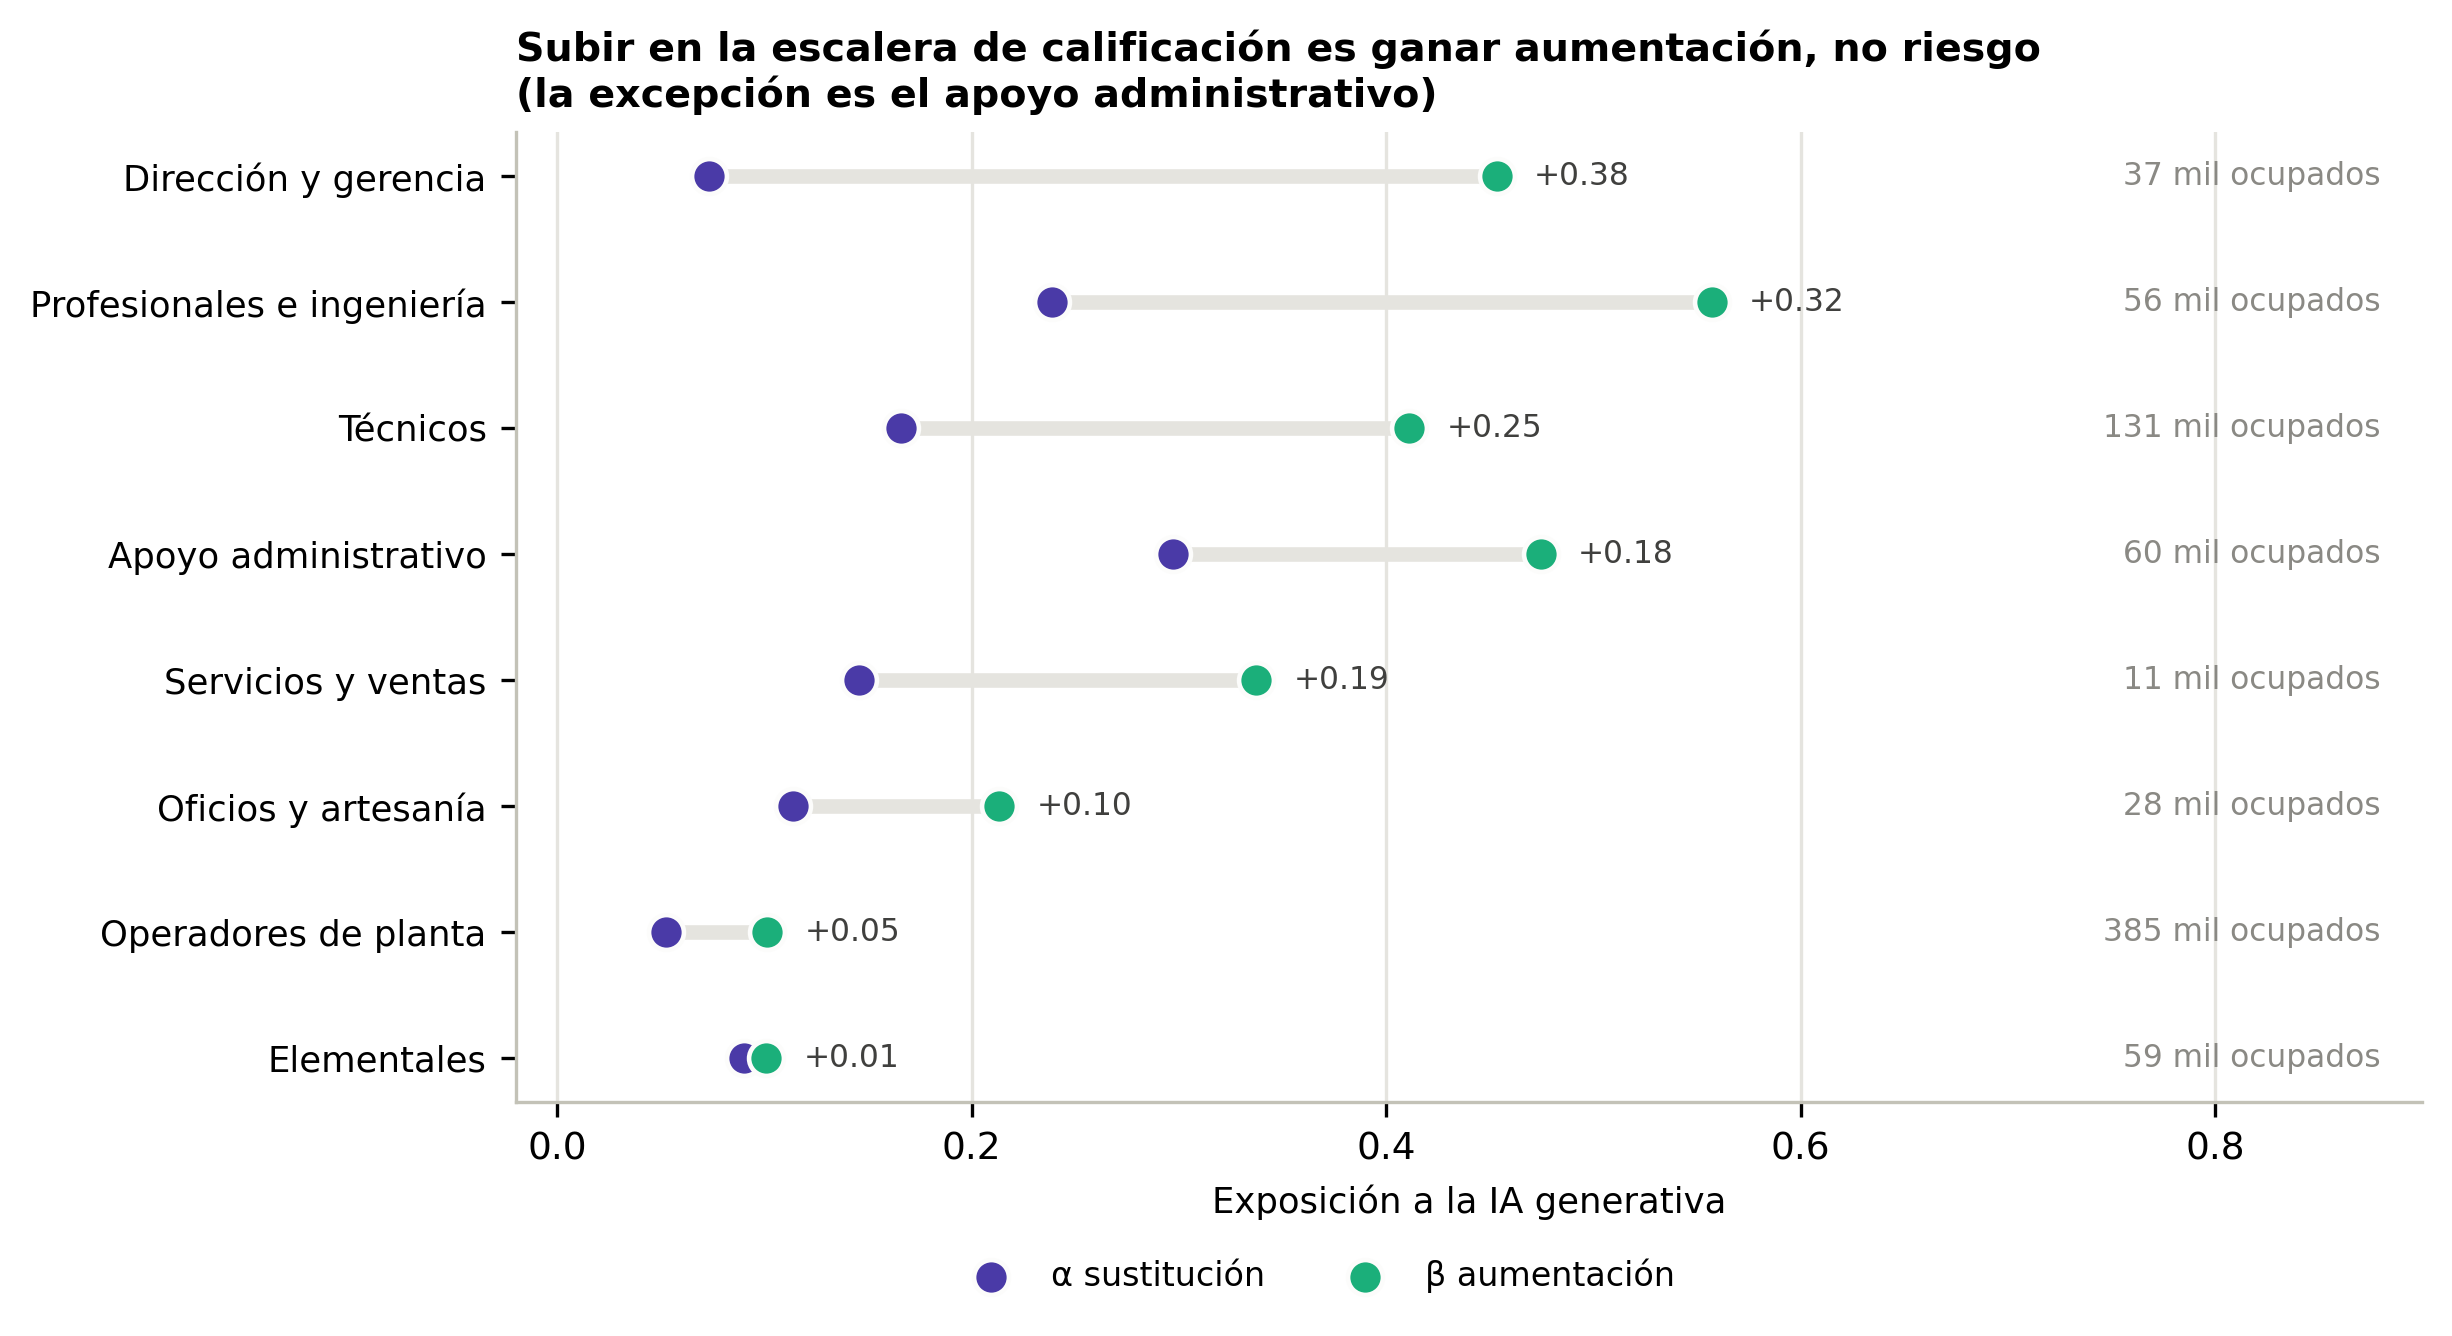
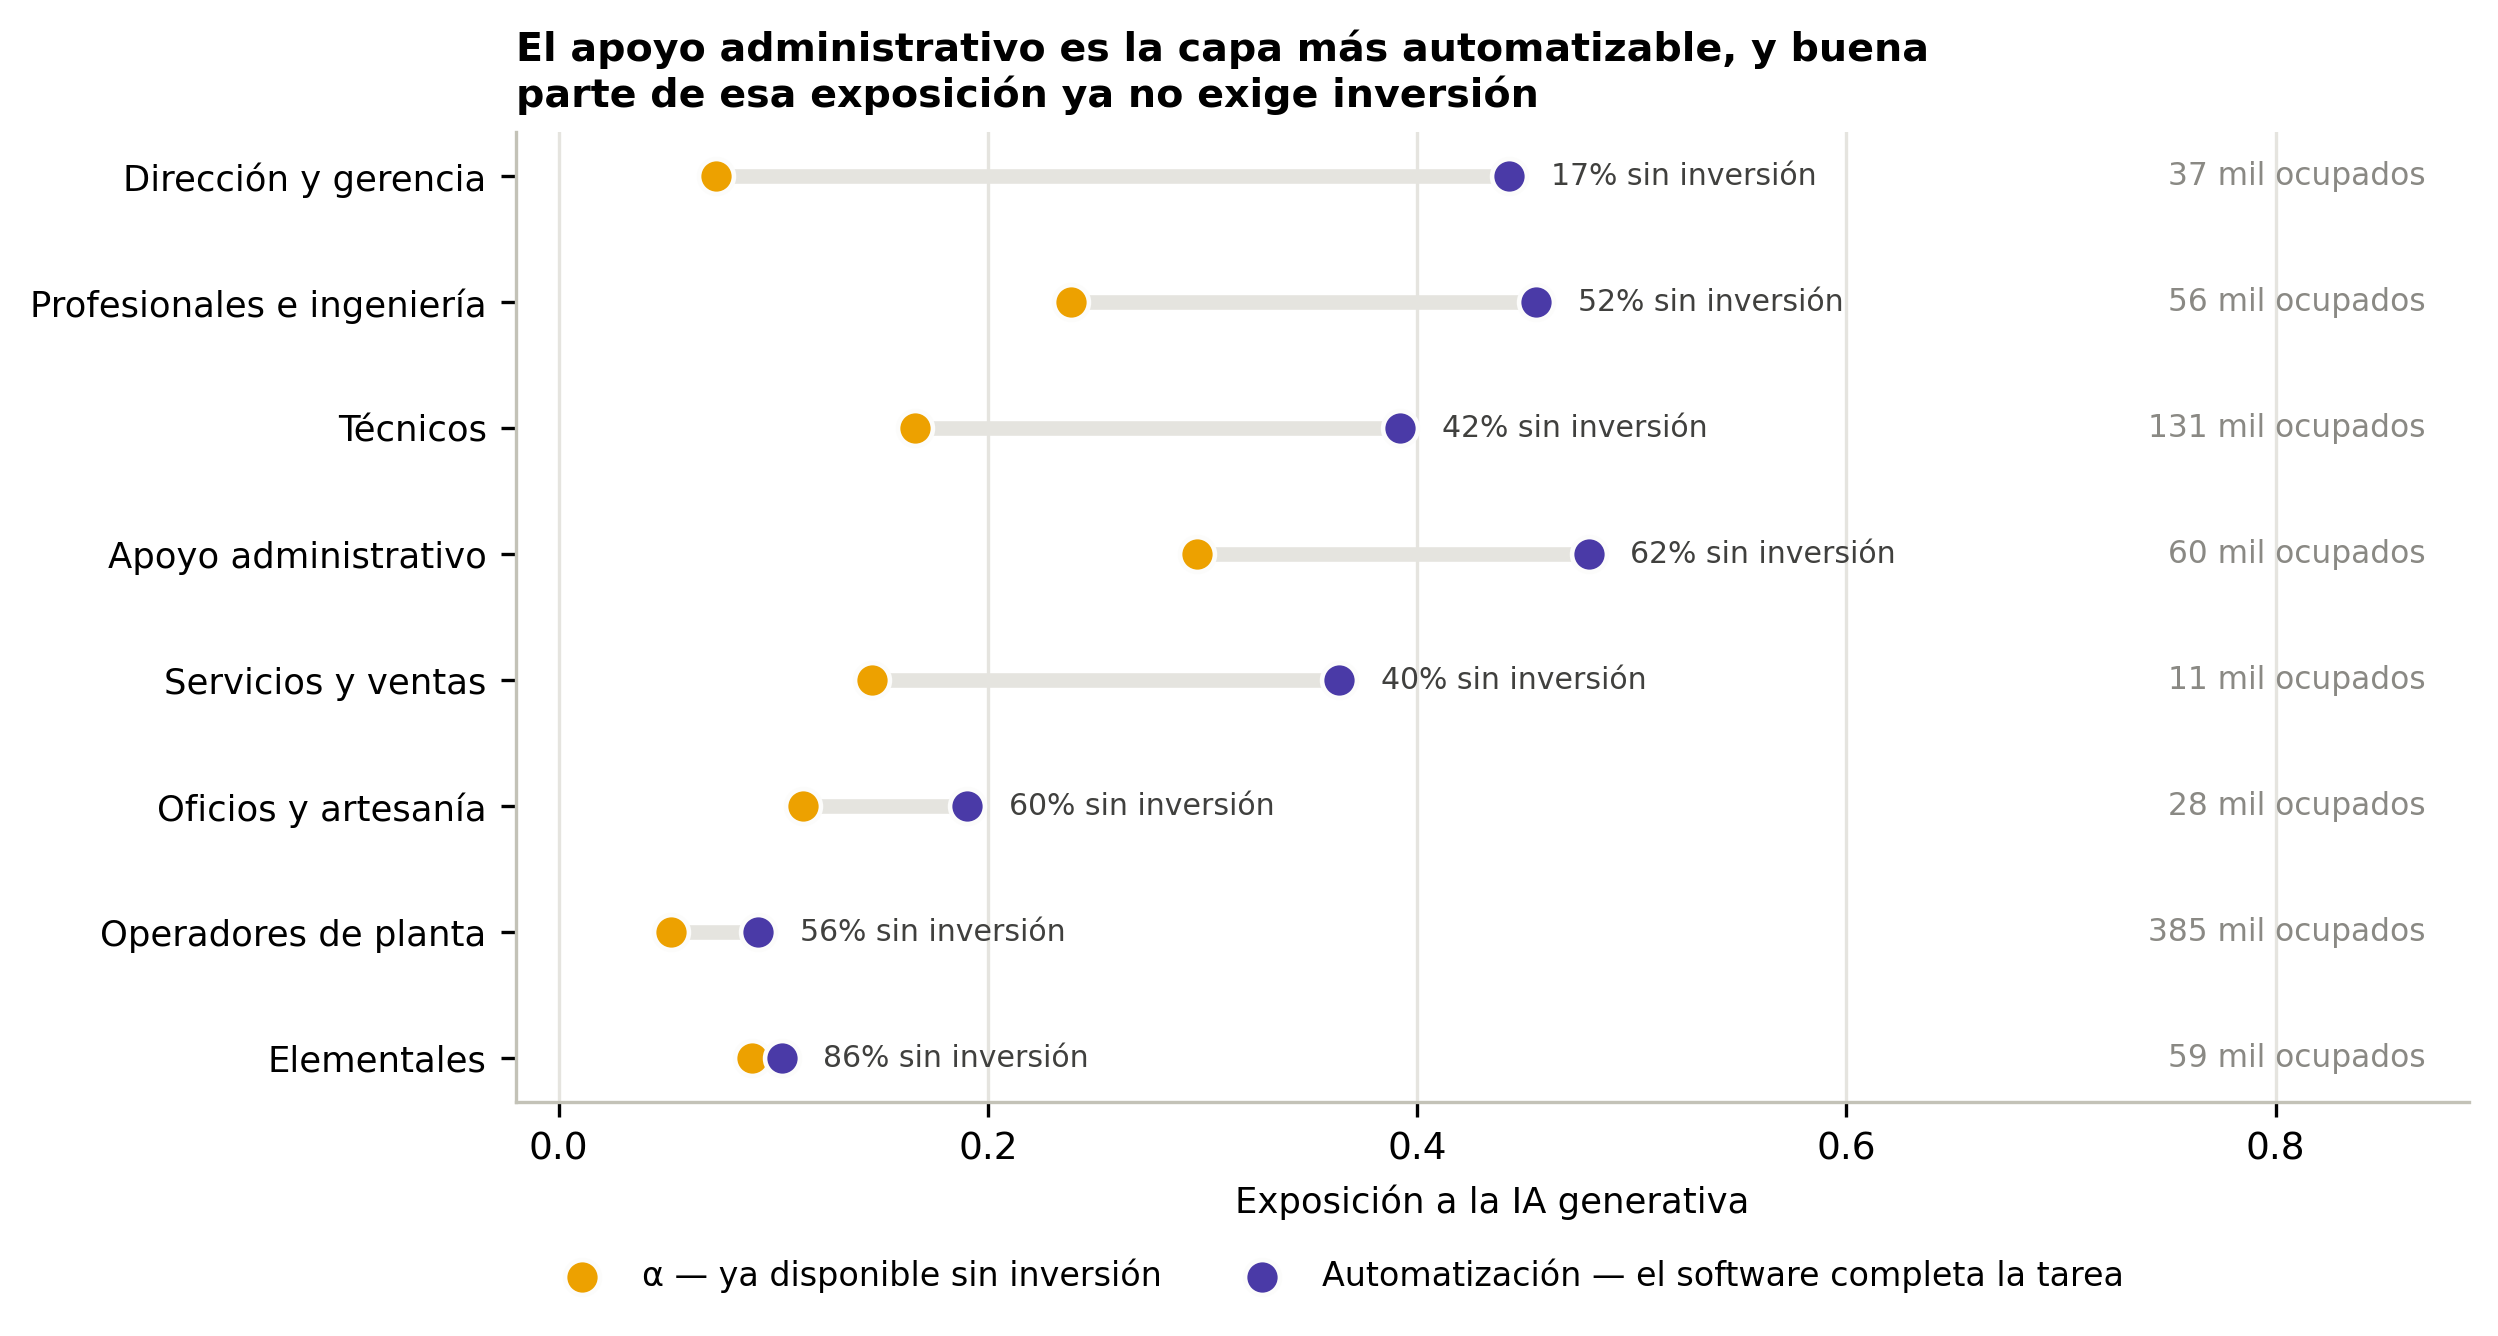
Corrige la interpretación de las medidas de exposición
La revisión del paper fuente (materiales suplementarios, secciones 3.1 y 3.2)
mostró que la lectura anterior era incorrecta en tres puntos.

Primero, β no es la exposición complementaria. Las etiquetas de tarea son
excluyentes y los puntajes publicados las componen: α = E1, β = E1 + 0,5·E2 y
γ = E1 + E2. Verificado sobre los 798 SOC: γ = 2β − α con desviación de 1e-9 y
β mayor o igual que α en el 100% de los casos.

Segundo, y como consecuencia, el plano α–β de la figura W4 tenía una diagonal
que ningún punto podía cruzar: se presentaba una identidad aritmética como si
fuera un hallazgo.

Tercero, ninguna de las tres medidas es de sustitución. El paper implementa
para eso una rúbrica separada (T0–T4) que ya venía sin usar en el archivo de
ratings como gpt4_automation, y cuya correlación con α es de solo +0,66.

La W4 pasa a enfrentar α con automatización, donde la diagonal sí informa
—separa la exposición disponible hoy de la que exige desarrollar software—, y
la W5 muestra la automatización por capa junto con la parte alcanzable sin
desarrollos a medida.

El hallazgo sobrevive y se refuerza: el apoyo administrativo es la capa más
automatizable (0,48) y la de riesgo más inmediato, con el 62% ya disponible,
mientras la planta se mantiene en 0,09. Pero con α quedaban mal clasificadas
como seguras tres ocupaciones de oficina: gerentes de recursos humanos,
compradores y analistas de gestión, todas con α bajo 0,10 y automatización
sobre 0,50.

diff --git a/index.html b/index.html
@@ -140,7 +140,7 @@ thead th{font-family:var(--mono);font-size:.68rem;letter-spacing:.08em;
     <ol>
       <li><a href="#medida"><span>—</span><span>Cómo se mide</span></a></li>
       <li><a href="#h1"><span>01</span><span>El riesgo está en la oficina</span></a></li>
-      <li><a href="#h2"><span>02</span><span>Subir es ganar aumentación</span></a></li>
+      <li><a href="#h2"><span>02</span><span>La capa calificada no está a salvo</span></a></li>
       <li><a href="#h3"><span>03</span><span>La cadena reparte los nodos</span></a></li>
       <li><a href="#h4"><span>04</span><span>El capital humano no basta</span></a></li>
       <li><a href="#h5"><span>05</span><span>La demanda de IA se duplica</span></a></li>
@@ -157,75 +157,83 @@ thead th{font-family:var(--mono);font-size:.68rem;letter-spacing:.08em;
 
     <section class="medida" id="medida">
       <p class="eyebrow">La distinción que decide la lectura</p>
-      <h2>Sustituir no es lo mismo que complementar</h2>
-      <p style="max-width:66ch;margin:0 0 1.4rem;color:var(--gris)">
-        Los puntajes de Eloundou et al. (2023) tienen dos componentes que suelen
-        reportarse sumados. Separarlos cambia la conclusión de política, porque miden
-        cosas distintas.</p>
+      <h2>Exposición no es lo mismo que automatización</h2>
+      <p style="max-width:68ch;margin:0 0 1.4rem;color:var(--gris)">
+        La rúbrica de Eloundou et al. (2023) etiqueta cada tarea como sin exposición,
+        de exposición <em>directa</em> —el modelo por sí solo reduce el tiempo a la
+        mitad— o de exposición <em>mediada por software</em>. Los puntajes publicados
+        son composiciones de esas etiquetas: α son las directas y β suma a α la mitad
+        de las mediadas, de modo que β contiene a α y nunca puede ser menor. No son
+        dos magnitudes contrapuestas. Y ninguna mide reemplazo: para eso los autores
+        implementan una rúbrica aparte, de automatización.</p>
       <dl class="par">
         <div class="a">
-          <dt>α · sustitución</dt>
-          <dd>La tarea se resuelve en la mitad del tiempo con <em>solo</em> un modelo de
-            lenguaje. No requiere inversión ni rediseño de procesos: es la medida
-            próxima al desplazamiento.</dd>
+          <dt>Automatización</dt>
+          <dd>¿Puede el software <em>completar</em> la tarea, y con cuánta supervisión
+            humana? Es la medida relevante para el desplazamiento. Su correlación con
+            α es de solo +0,66: la exposición directa no la aproxima.</dd>
         </div>
         <div class="b">
-          <dt>β · aumentación</dt>
-          <dd>La fracción adicional que se reduce con software construido sobre el
-            modelo. Exige inversión y capacidad de absorción, así que mide potencial
-            de productividad, no reemplazo.</dd>
+          <dt>α · exposición directa</dt>
+          <dd>Proporción de tareas que un modelo de uso general ya abarata sin
+            desarrollar nada a medida. Leída junto a la automatización, indica qué
+            parte del riesgo está disponible <em>hoy</em> y qué parte exige inversión.</dd>
         </div>
       </dl>
     </section>
 
     <section class="hallazgo" id="h1">
       <p class="eyebrow">Hallazgo 01</p>
-      <h2>El riesgo de sustitución no está en la planta, está en la oficina</h2>
-      <p>El 62% del empleo de los sectores estratégicos se concentra en ocupaciones con
-        α por debajo de 0,10: ensambladores de equipo eléctrico, ensambladores mecánicos,
-        operadores de empaque. No están protegidas por ninguna cualidad especial — es
-        trabajo físico que un modelo de lenguaje no alcanza. El riesgo próximo está en la
-        administración de la planta, no en la planta.</p>
+      <h2>El riesgo de automatización no está en la planta, está en la oficina</h2>
+      <p>El 56% del empleo de los sectores estratégicos está en ocupaciones cuya
+        automatización es inferior a 0,10: ensambladores, operadores de empaque,
+        embaladores. Es trabajo físico que un sistema de lenguaje no alcanza. El riesgo
+        se concentra en la administración de la planta — y la exposición directa por sí
+        sola no lo detecta: gerentes de recursos humanos, compradores y analistas de
+        gestión tienen α por debajo de 0,10 y automatización sobre 0,50.</p>
       <div class="cifras">
-        <div class="cifra"><b>62%</b><span>del empleo sectorial con α &lt; 0,10</span></div>
-        <div class="cifra morado"><b>0,78</b><span>α de capturistas de datos</span></div>
-        <div class="cifra morado"><b>0,48</b><span>α de técnicos de operaciones TIC</span></div>
-        <div class="cifra"><b>35 402</b><span>ocupados en control de almacén, el grupo expuesto más numeroso</span></div>
+        <div class="cifra"><b>56%</b><span>del empleo sectorial con automatización &lt; 0,10</span></div>
+        <div class="cifra morado"><b>0,67</b><span>capturistas de datos</span></div>
+        <div class="cifra morado"><b>0,66</b><span>contadores, con α de solo 0,14</span></div>
+        <div class="cifra"><b>+0,66</b><span>correlación entre α y automatización: son medidas distintas</span></div>
       </div>
       <figure>
         <img src="figuras/W4_plano_sustitucion_aumentacion.png"
-             alt="Diagrama de dispersión de ocupaciones según riesgo de sustitución y potencial de aumentación; la masa del empleo se concentra abajo a la izquierda y las ocupaciones administrativas aparecen a la derecha.">
+             alt="Dispersión de ocupaciones según exposición directa y automatización; la planta se agrupa abajo a la izquierda y las ocupaciones de oficina arriba.">
         <figcaption>Cada burbuja es una ocupación CIUO-08 de cuatro dígitos con más de
-          1 200 ocupados en el agregado de los tres sectores estratégicos; el tamaño es
-          proporcional al empleo.</figcaption>
+          1 200 ocupados; el tamaño es proporcional al empleo. Sobre la diagonal, el
+          software puede completar más tarea de la que el modelo abarata por sí solo:
+          exposición que exige inversión.</figcaption>
       </figure>
     </section>
 
     <section class="hallazgo" id="h2">
       <p class="eyebrow">Hallazgo 02</p>
-      <h2>Subir en la escalera de calificación es ganar aumentación, no riesgo</h2>
-      <p>El margen entre aumentación y sustitución crece de forma casi monótona con el
-        nivel de competencia de la CIUO-08. La excepción rompe el patrón de manera
-        instructiva: el apoyo administrativo tiene el α más alto de todas las capas y un
-        margen por debajo de capas menos calificadas. Es el único estrato donde la
-        palabra sustitución describe un riesgo concreto.</p>
+      <h2>La capa calificada no está a salvo: su exposición es contingente, no baja</h2>
+      <p>La automatización crece con el nivel de competencia hasta el apoyo
+        administrativo, la capa más automatizable de todas. Técnicos, profesionales y
+        dirección quedan cerca. Lo que los separa no es la magnitud sino el plazo: en la
+        oficina casi dos tercios de esa exposición ya está disponible con herramientas
+        de uso general, mientras en dirección solo el 17% lo está y el resto depende de
+        que alguien desarrolle software específico. Eso concede tiempo, no inmunidad.</p>
       <div class="tabla">
         <table>
-          <caption class="eyebrow" style="text-align:left;padding-bottom:.6rem;text-transform:none;letter-spacing:.04em">Margen β − α por capa ocupacional</caption>
-          <thead><tr><th scope="col">Capa</th><th scope="col">α</th><th scope="col">β</th><th scope="col">Margen</th><th scope="col">Ocupados</th></tr></thead>
+          <caption class="eyebrow" style="text-align:left;padding-bottom:.6rem;text-transform:none;letter-spacing:.04em">Automatización y parte alcanzable sin inversión</caption>
+          <thead><tr><th scope="col">Capa</th><th scope="col">α</th><th scope="col">Automatización</th><th scope="col">Sin inversión</th><th scope="col">Ocupados</th></tr></thead>
           <tbody>
-            <tr><td>Ocupaciones elementales</td><td>0,09</td><td>0,10</td><td>+0,01</td><td>59 808</td></tr>
-            <tr><td>Operadores de planta</td><td>0,05</td><td>0,10</td><td>+0,05</td><td>384 815</td></tr>
-            <tr><td>Apoyo administrativo</td><td><strong>0,30</strong></td><td>0,48</td><td><strong>+0,18</strong></td><td>60 399</td></tr>
-            <tr><td>Técnicos</td><td>0,17</td><td>0,41</td><td>+0,25</td><td>130 557</td></tr>
-            <tr><td>Profesionales e ingeniería</td><td>0,24</td><td>0,56</td><td>+0,32</td><td>56 099</td></tr>
-            <tr><td>Dirección y gerencia</td><td>0,07</td><td>0,45</td><td>+0,38</td><td>37 164</td></tr>
+            <tr><td>Operadores de planta</td><td>0,05</td><td>0,09</td><td>56%</td><td>384 815</td></tr>
+            <tr><td>Ocupaciones elementales</td><td>0,09</td><td>0,10</td><td>86%</td><td>58 966</td></tr>
+            <tr><td>Oficios y artesanía</td><td>0,11</td><td>0,19</td><td>60%</td><td>28 049</td></tr>
+            <tr><td>Técnicos</td><td>0,17</td><td>0,39</td><td>42%</td><td>130 557</td></tr>
+            <tr><td>Dirección y gerencia</td><td>0,07</td><td>0,44</td><td><strong>17%</strong></td><td>37 164</td></tr>
+            <tr><td>Profesionales e ingeniería</td><td>0,24</td><td>0,46</td><td>52%</td><td>56 099</td></tr>
+            <tr><td><strong>Apoyo administrativo</strong></td><td>0,30</td><td><strong>0,48</strong></td><td><strong>62%</strong></td><td>60 399</td></tr>
           </tbody>
         </table>
       </div>
       <figure>
         <img src="figuras/W5_escalera_calificacion.png"
-             alt="Gráfico de mancuernas que muestra α y β por capa ocupacional, con el margen creciendo hacia las capas más calificadas salvo en apoyo administrativo.">
+             alt="Gráfico de mancuernas con la exposición directa y la automatización por capa ocupacional.">
         <figcaption>Promedios ponderados por empleo sobre el agregado de los tres
           sectores estratégicos en los cinco países.</figcaption>
       </figure>

diff --git a/README.md b/README.md
@@ -16,12 +16,13 @@ Departamento de Países CID.
 
 ## Los cinco hallazgos
 
-1. **El riesgo de sustitución está en la oficina, no en la planta.** El 62% del
-   empleo sectorial tiene α por debajo de 0,10; el riesgo se concentra en
-   capturistas de datos (0,78) y técnicos de operaciones TIC (0,48).
-2. **Subir en la escalera de calificación es ganar aumentación.** El margen β−α
-   crece de +0,01 en ocupaciones elementales a +0,38 en dirección. La excepción
-   es el apoyo administrativo, único estrato con riesgo material.
+1. **El riesgo de automatización está en la oficina, no en la planta.** El 56%
+   del empleo sectorial tiene automatización por debajo de 0,10; el riesgo se
+   concentra en capturistas (0,67), contadores (0,66) y oficinistas (0,64).
+2. **La capa calificada no está a salvo: su exposición es contingente.** Técnicos,
+   profesionales y dirección llegan a 0,39–0,46 de automatización, cerca del
+   apoyo administrativo (0,48). Los separa el plazo, no la magnitud: en la
+   oficina el 62% ya es alcanzable sin desarrollos a medida; en dirección, 17%.
 3. **La cadena regional reparte los nodos.** En cables, la capa
    técnica-profesional es 26% en México, 19% en Honduras y 18% en Rep. Dominicana.
 4. **Tener el capital humano no basta.** Rep. Dominicana tiene el stock terciario
@@ -31,7 +32,9 @@ Departamento de Países CID.
 
 ## Método en una línea
 
-Puntajes de exposición de Eloundou et al. (2023) transferidos por
+Rúbricas de exposición y de automatización de Eloundou et al. (2023) —son
+medidas distintas: la primera mide ahorro de tiempo, la segunda si el software
+puede completar la tarea— transferidas por
 O*NET/SOC-2018 → SOC-2010 → CIUO-08 con correspondencias oficiales, cruzados con
 las encuestas de empleo de cinco países y con 2 586 172 vacantes en línea del
 Observatorio Laboral del BID (junio 2022 – mayo 2026).
